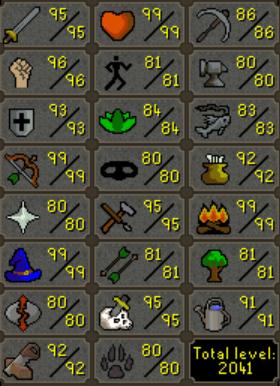
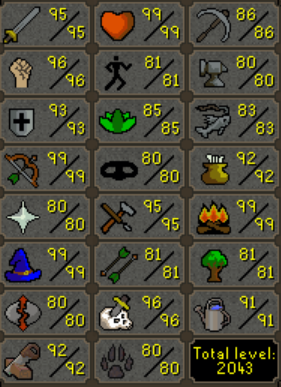
herb slayer

diff --git a/index.html b/index.html
@@ -17,6 +17,6 @@
   <span class="shrinkwrap">
     <img src="./imgs/homepage/personified-fear.jpg">
   </span>
-  <p>last updated 2025-06-01</p>
+  <p>last updated 2025-06-02</p>
   <p>latest updates: OSRS Levels, Colorado bouldering, Photos added</p>
 </div>
